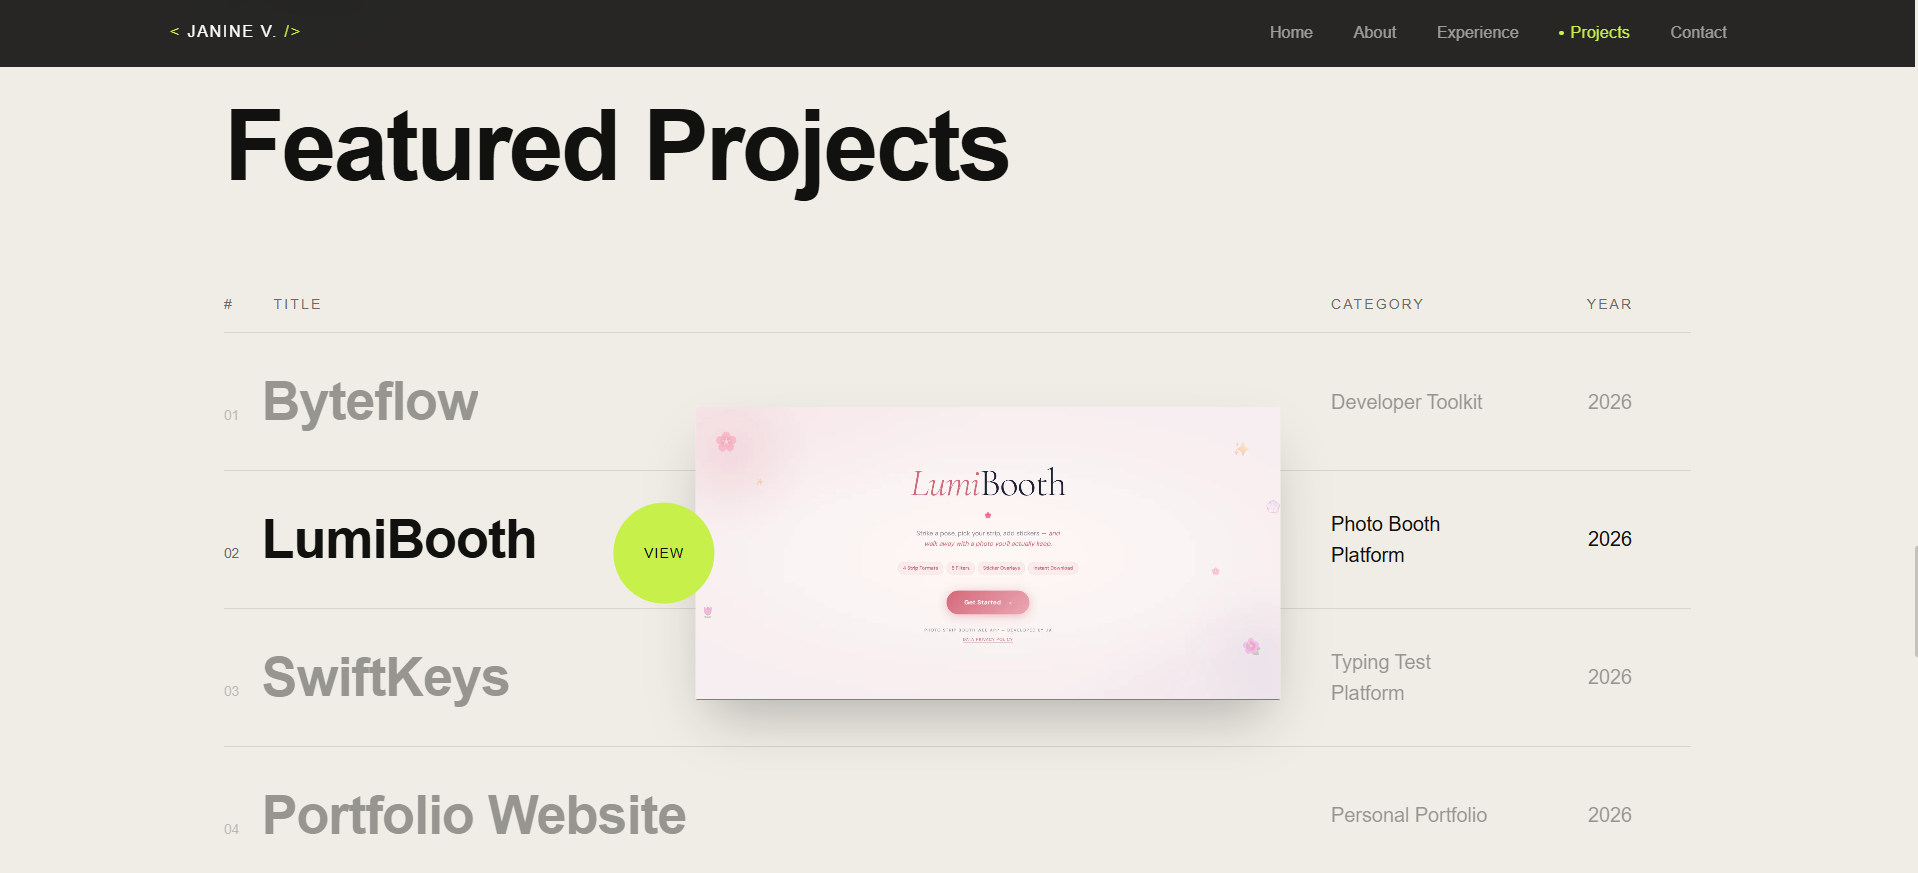
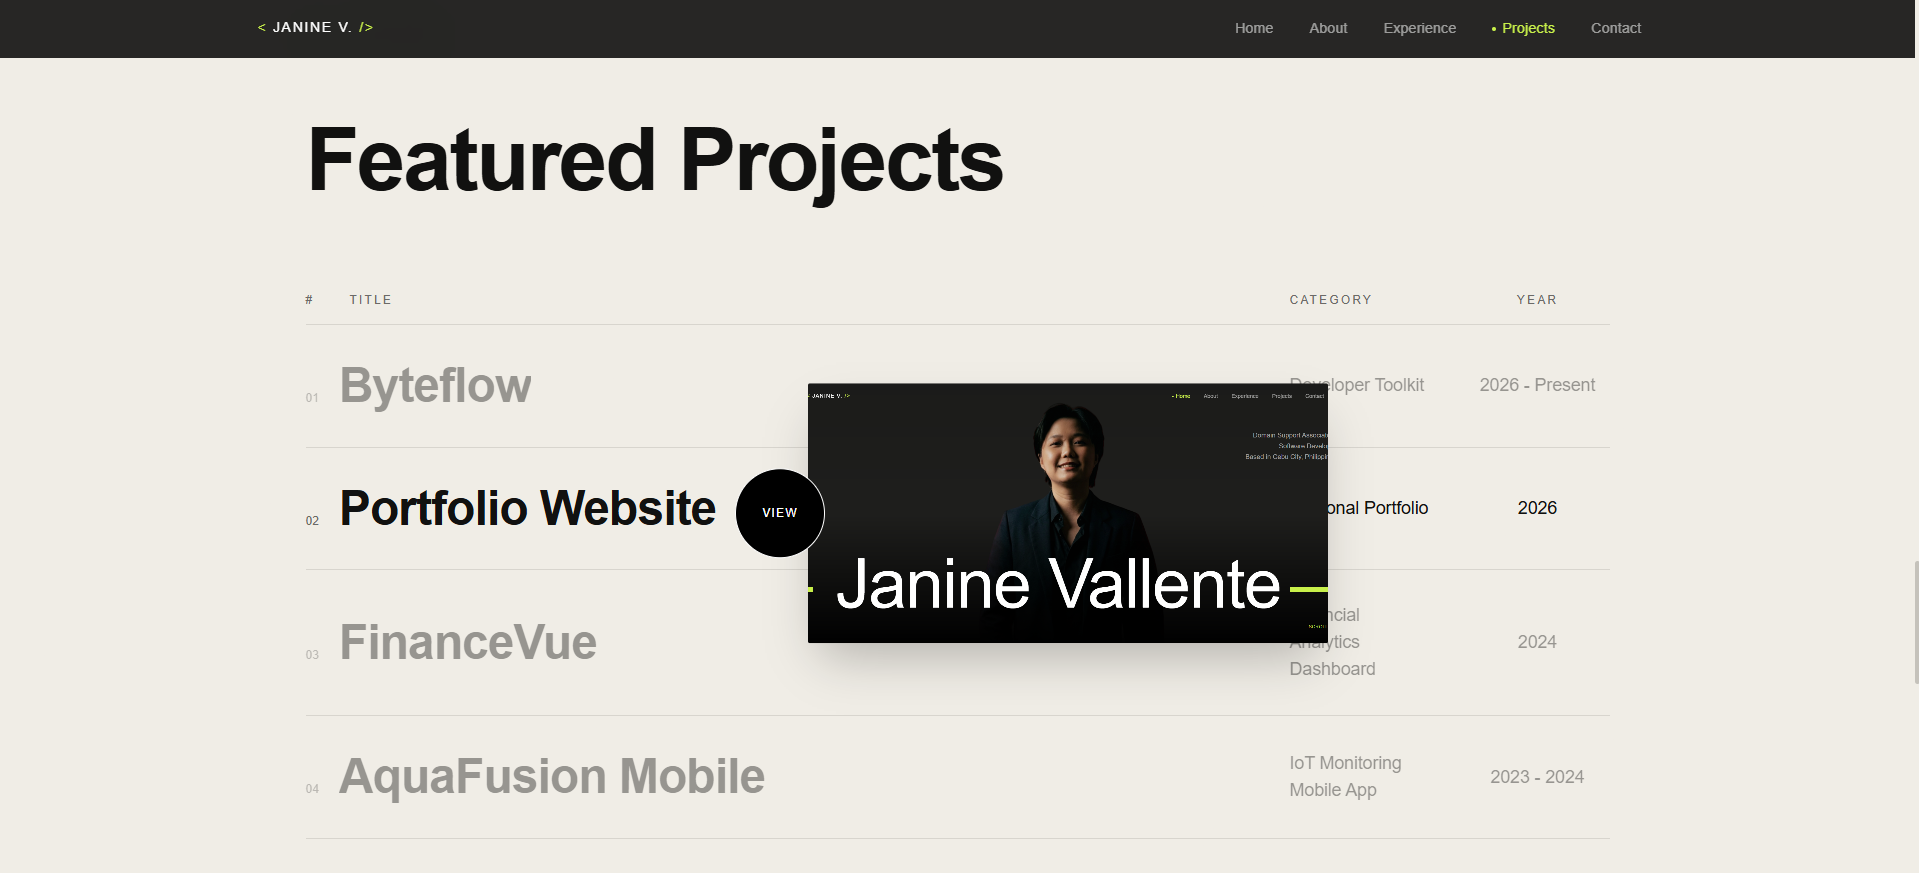
enh: removed unused image assets and update portfolio data

diff --git a/src/lib/data.ts b/src/lib/data.ts
@@ -4,16 +4,6 @@ import ByteflowImg3 from "@/assets/images/byteflow3.webp";
 import ByteflowImg4 from "@/assets/images/byteflow4.webp";
 import ByteflowImg5 from "@/assets/images/byteflow5.webp";
 import ByteflowImg6 from "@/assets/images/byteflow6.webp";
-import LumiBoothImg from "@/assets/images/lumibooth.webp";
-import LumiBoothImg2 from "@/assets/images/lumibooth2.webp";
-import LumiBoothImg3 from "@/assets/images/lumibooth3.webp";
-import LumiBoothImg4 from "@/assets/images/lumibooth4.webp";
-import SwiftKeysImg from "@/assets/images/swiftkeys.webp";
-import SwiftKeysImg2 from "@/assets/images/swiftkeys2.webp";
-import SwiftKeysImg3 from "@/assets/images/swiftkeys3.webp";
-import SwiftKeysImg4 from "@/assets/images/swiftkeys4.webp";
-import SwiftKeysImg5 from "@/assets/images/swiftkeys5.webp";
-import SwiftKeysImg6 from "@/assets/images/swiftkeys6.webp";
 import FinanceVueImg from "@/assets/images/financevue.webp";
 import AquafusionImg from "@/assets/images/aquafusion.webp";
 import PortfolioImg from "@/assets/images/portfolio.webp";
@@ -138,9 +128,9 @@ export const portfolio = {
       title: "Byteflow",
       category: "Developer Toolkit",
       description:
-        "A growing collection of privacy-first tech utilities designed for developers and IT professionals. Byteflow includes image processing tools, color and accessibility utilities, Tailwind CSS helpers, front-end productivity features, and network tools — all running directly in the browser with no installs or unnecessary uploads. Built with React, Vite, and Tailwind CSS for a fast, lightweight, and seamless user experience, with future expansion into SEO, backend, and general-purpose development utilities.",
+        "A privacy-first toolkit for developers and IT professionals featuring browser-based utilities for image processing, design workflows, networking, domain operations, web performance, and security. Byteflow brings essential development and tech tools into a single fast, lightweight application built with React, Vite, and Tailwind CSS.",
       tags: ["React", "Vite", "Javascript", "Tailwind CSS", "Netlify"],
-      year: "2026",
+      year: "2026 - Present",
       images: [
         ByteflowImg,
         ByteflowImg2,
@@ -163,61 +153,6 @@ export const portfolio = {
     },
     {
       id: "02",
-      title: "LumiBooth",
-      category: "Photo Booth Platform",
-      description:
-        "A beautiful and intuitive photo strip booth web application that lets users capture photos, decorate them with stickers and filters, choose creative strip formats, and download polished results. Built with Next.js, TypeScript and Tailwind CSS for a smooth, responsive experience with fast performance and clean state management.",
-      tags: ["Next.js", "TypeScript", "Tailwind CSS", "Vercel"],
-      year: "2026",
-      images: [LumiBoothImg, LumiBoothImg2, LumiBoothImg3, LumiBoothImg4],
-      hasUrl: true,
-      url: "https://lumibooth.vercel.app/",
-      hasGithub: true,
-      github: "https://github.com/janinevallente/lumibooth-nextjs",
-      featured: true,
-      hasContibutors: false,
-      contributors: [],
-      contributorsImg: [],
-      contributorsLinkedIn: [],
-    },
-    {
-      id: "03",
-      title: "SwiftKeys",
-      category: "Typing Test Platform",
-      description:
-        "A retro arcade-themed typing speed test web application that allows users to challenge their typing skills through multiple difficulty levels, customizable test durations, real-time WPM and accuracy tracking, and detailed score history analytics. Built with Next.js, TypeScript, and Tailwind CSS for a fast, responsive experience with immersive interactions and a polished pixel-art design.",
-      tags: [
-        "Next.js",
-        "TypeScript",
-        "Tailwind CSS",
-        "Framer Motion",
-        "Recharts",
-        "Web Audio API",
-        "Vercel",
-      ],
-      year: "2026",
-      images: [
-        SwiftKeysImg,
-        SwiftKeysImg2,
-        SwiftKeysImg3,
-        SwiftKeysImg4,
-        SwiftKeysImg5,
-        SwiftKeysImg6,
-      ],
-      hasUrl: true,
-      url: "https://swiftkeys-wpm.vercel.app/",
-      hasGithub: true,
-      github: "https://github.com/janinevallente/swiftkeys",
-      hasPublication: false,
-      publication: "",
-      featured: true,
-      hasContibutors: false,
-      contributors: [],
-      contributorsImg: [],
-      contributorsLinkedIn: [],
-    },
-    {
-      id: "04",
       title: "Portfolio Website",
       category: "Personal Portfolio",
       description:
@@ -245,7 +180,7 @@ export const portfolio = {
       contributorsLinkedIn: [],
     },
     {
-      id: "05",
+      id: "03",
       title: "FinanceVue",
       category: "Financial Analytics Dashboard",
       description:
@@ -266,7 +201,7 @@ export const portfolio = {
       contributorsLinkedIn: ["https://www.linkedin.com/in/en-esguerra/"],
     },
     {
-      id: "06",
+      id: "04",
       title: "AquaFusion Mobile",
       category: "IoT Monitoring Mobile App",
       description:
